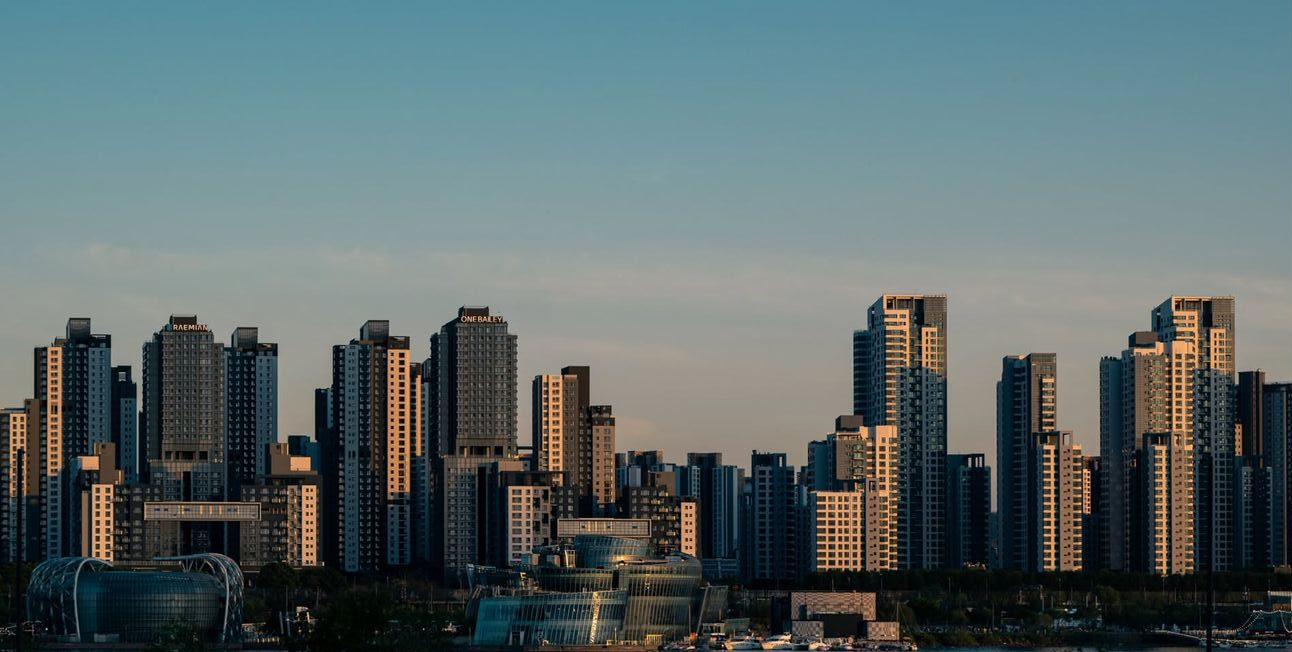
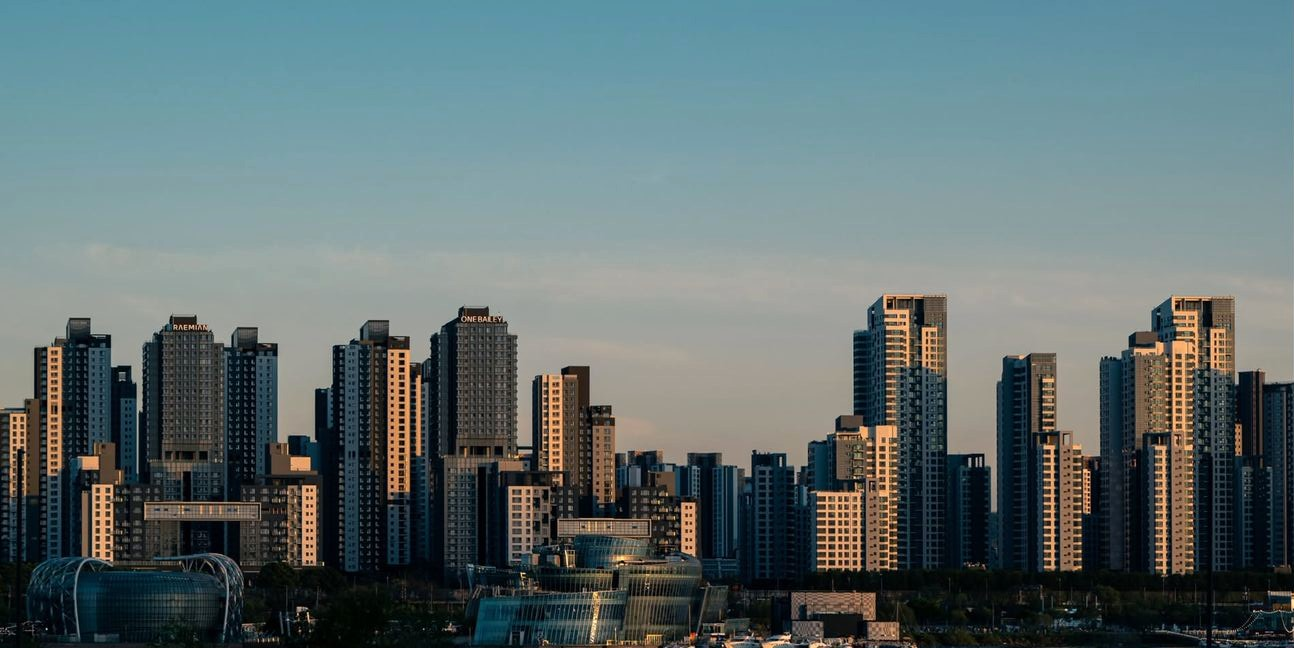
Hero: use the full skyline photo with its own sky instead of a stitched-on gradient
Claude-Session: https://claude.ai/code/session_01BS6Hv8jWvS9UUisMcfmDfK

Changed region(s): [[0.0, 0.4321, 1.0, 1.0], [0.1858, 0.9259, 0.2477, 1.0], [0.743, 0.8642, 0.774, 0.8951]]

diff --git a/components/Hero.tsx b/components/Hero.tsx
@@ -3,23 +3,17 @@ import TypedText from "./TypedText";
 export default function Hero() {
   return (
     <section className="hero-sky relative flex min-h-[calc(100svh-68px)] items-center overflow-hidden py-24 text-white">
-      {/* City skyline that fades in, tinted with the same teal-blue as the sky */}
+      {/* The whole skyline photo, its own sky included, fades in behind the text */}
       <img
         src="/hero-skyline.jpg"
         alt=""
         aria-hidden="true"
-        className="hero-photo absolute inset-x-0 bottom-0 z-0 h-[58%] w-full object-cover object-bottom"
+        className="hero-photo absolute inset-0 z-0 h-full w-full object-cover object-bottom"
       />
 
-      {/* Soft drifting clouds */}
-      <div className="hero-clouds absolute inset-0 z-0" aria-hidden="true">
-        <span className="cloud cloud-3" />
-        <span className="cloud cloud-4" />
-      </div>
-
-      {/* Deepens the top so the headline stays crisp */}
+      {/* Gentle teal shade so the text reads over the buildings */}
       <div
-        className="absolute inset-0 z-[1] bg-[linear-gradient(180deg,rgba(14,40,48,0.35),rgba(14,40,48,0)_60%)]"
+        className="absolute inset-0 z-[1] bg-[radial-gradient(ellipse_70%_60%_at_50%_50%,rgba(14,40,48,0.45),rgba(14,40,48,0.15)_75%),linear-gradient(180deg,rgba(14,40,48,0.25),rgba(14,40,48,0)_40%,rgba(14,40,48,0.35))]"
         aria-hidden="true"
       />
 
@@ -58,9 +52,9 @@ export default function Hero() {
           style={{ animationDelay: "320ms" }}
         >
           <li>Women-owned brands only</li>
-          <li aria-hidden="true">·</li>
+          <li aria-hidden="true" className="hidden sm:block">·</li>
           <li>Based in Charlotte, working anywhere</li>
-          <li aria-hidden="true">·</li>
+          <li aria-hidden="true" className="hidden sm:block">·</li>
           <li>One person, start to finish</li>
         </ul>
       </div>

diff --git a/app/globals.css b/app/globals.css
@@ -122,15 +122,13 @@ html {
 .hero-photo {
   opacity: 0;
   transform: translateY(24px);
-  /* Natural colors, softened slightly; fades into the sky toward the top */
-  filter: blur(1px) brightness(1.08) saturate(1.1);
-  -webkit-mask-image: linear-gradient(to top, #000 45%, transparent 100%);
-  mask-image: linear-gradient(to top, #000 45%, transparent 100%);
+  /* The photo's own sky and natural colors, kept sharp */
+  filter: saturate(1.05);
   animation: heroPhotoIn 2.2s cubic-bezier(0.21, 0.6, 0.35, 1) 0.3s forwards;
 }
 @keyframes heroPhotoIn {
   to {
-    opacity: 0.85;
+    opacity: 1;
     transform: none;
   }
 }
@@ -249,6 +247,6 @@ html {
 
 @media (prefers-reduced-motion: reduce) {
   .hero-photo {
-    opacity: 0.85 !important;
+    opacity: 1 !important;
   }
 }
